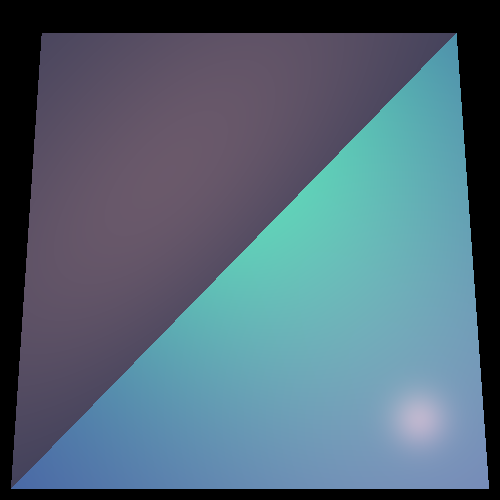
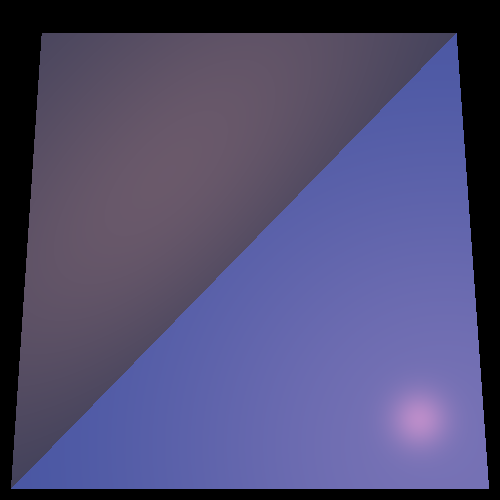
Fixing76

diff --git a/unittests/renderer/ShadowTests.java b/unittests/renderer/ShadowTests.java
@@ -1,0 +1,123 @@
+package renderer;
+
+import static java.awt.Color.BLUE;
+
+import org.junit.jupiter.api.Test;
+
+import geometries.*;
+import lighting.*;
+import primitives.*;
+import scene.Scene;
+
+/**
+ * Testing basic shadows
+ * @author Dan Zilberstein
+ */
+class ShadowTests {
+   /** Default constructor to satisfy JavaDoc generator */
+   ShadowTests() { /* to satisfy JavaDoc generator */ }
+
+   /** Scene of the tests */
+   private final Scene          scene      = new Scene("Test scene");
+   /** Camera builder of the tests */
+   private final Camera.Builder camera     = Camera.getBuilder()
+      .setLocation(new Point(0, 0, 1000))
+      .setDirection(Point.ZERO, Vector.AXIS_Y)
+      .setVpDistance(1000)
+      .setVpSize(200, 200)
+      .setRayTracer(scene, RayTracerType.SIMPLE);
+
+   /** The sphere in the tests */
+   private final Intersectable  sphere     = new Sphere(60d,new Point(0, 0, -200))
+      .setEmission(new Color(BLUE))
+      .setMaterial(new Material().setKD(0.5).setKS(0.5).setShininess(30));
+   /** The material of the triangles in the tests */
+   private final Material       trMaterial = new Material().setKD(0.5).setKS(0.5).setShininess(30);
+
+   /**
+    * Helper function for the tests in this module
+    * @param pictName     the name of the picture generated by a test
+    * @param triangle     the triangle in the test
+    * @param spotLocation the spotlight location in the test
+    */
+   private void sphereTriangleHelper(String pictName, Triangle triangle, Point spotLocation) {
+      scene.geometries.add(sphere, triangle.setEmission(new Color(BLUE)).setMaterial(trMaterial));
+      scene.lights //
+         .add(new SpotLight(new Color(400, 240, 0), spotLocation, new Vector(1, 1, -3)) //
+            .setKl(1E-5).setKq(1.5E-7));
+      camera
+         .setResolution(400, 400) //
+         .build() //
+         .renderImage() //
+         .writeToImage(pictName);
+   }
+
+   /** Produce a picture of a sphere and triangle with point light and shade */
+   @Test
+   void sphereTriangleInitial() {
+      sphereTriangleHelper("shadowSphereTriangleInitial", //
+                           new Triangle(new Point(-70, -40, 0), new Point(-40, -70, 0), new Point(-68, -68, -4)), //
+                           new Point(-100, -100, 200));
+   }
+
+   /** Sphere-Triangle shading - move triangle up-right */
+   @Test
+   void sphereTriangleMove1() {
+      sphereTriangleHelper("shadowSphereTriangleMove2", //
+                           new Triangle(new Point(-60, -30, 0), new Point(-30, -60, 0), new Point(-58, -58, -4)), //
+                           new Point(-100, -100, 200));
+   }
+
+   /** Sphere-Triangle shading - move triangle upper-righter */
+   @Test
+   void sphereTriangleMove2() {
+      sphereTriangleHelper("shadowSphereTriangleMove1", //
+                           new Triangle(new Point(-50, -20, 0), new Point(-20, -50, 0), new Point(-48, -48, -4)), //
+                           new Point(-100, -100, 200));
+   }
+
+   /** Sphere-Triangle shading - move spot closer */
+   @Test
+   void sphereTriangleSpot1() {
+      sphereTriangleHelper("shadowSphereTriangleSpot1", //
+                           new Triangle(new Point(-70, -40, 0), new Point(-40, -70, 0), new Point(-68, -68, -4)), //
+                           new Point(-100, -100, 150));
+   }
+
+   /** Sphere-Triangle shading - move spot even more close */
+   @Test
+   void sphereTriangleSpot2() {
+      sphereTriangleHelper("shadowSphereTriangleSpot2", //
+                           new Triangle(new Point(-70, -40, 0), new Point(-40, -70, 0), new Point(-68, -68, -4)), //
+                           new Point(-100, -100, 100));
+   }
+
+   /**
+    * Produce a picture of two triangles lighted by a spotLight with a Sphere
+    * producing a shading
+    */
+   @Test
+   void trianglesSphere() {
+      scene.geometries //
+         .add( //
+              new Triangle(new Point(-150, -150, -115), new Point(150, -150, -135), new Point(75, 75, -150)) //
+                 .setMaterial(new Material().setKS(0.8).setShininess(60)), //
+              new Triangle(new Point(-150, -150, -115), new Point(-70, 70, -140), new Point(75, 75, -150)) //
+                 .setMaterial(new Material().setKS(0.8).setShininess(60)), //
+              new Sphere(30d,new Point(0, 0, -11)) //
+                 .setEmission(new Color(BLUE)) //
+                 .setMaterial(new Material().setKD(0.5).setKS(0.5).setShininess(30)) //
+         );
+      scene.setAmbientLight(new AmbientLight(new Color(38, 38, 38)));
+      scene.lights //
+         .add(new SpotLight(new Color(700, 400, 400), new Point(40, 40, 115), new Vector(-1, -1, -4)) //
+            .setKl(4E-4).setKq(2E-5));
+
+      camera//
+         .setResolution(600, 600) //
+         .build() //
+         .renderImage() //
+         .writeToImage("shadowTrianglesSphere");
+   }
+
+}

diff --git a/src/renderer/SimpleRayTracer.java b/src/renderer/SimpleRayTracer.java
@@ -29,6 +29,12 @@ public class SimpleRayTracer extends RayTracerBase {
     }
 
     /**
+     * A small value used to avoid floating-point precision issues.
+     * This value is used to check if two floating-point numbers are equal.
+     */
+    private static final double DELTA = 0.1;
+
+    /**
      * Traces a ray through the scene and returns the color at the intersection point.
      * This method checks if the ray intersects with any geometries in the scene.
      * If there are no intersections, it returns the background color of the scene.
@@ -131,7 +137,8 @@ public class SimpleRayTracer extends RayTracerBase {
         // Iterate through all the light sources in the scene
         for (LightSource lightSource : scene.lights) {
             // Set the light source for the intersection point
-            if (setLightSource(intersection, lightSource)) {
+            // Check also if the intersection point is unshaded
+            if (setLightSource(intersection, lightSource)&&unshaded(intersection)) {
                 // Calculate the diffuse and specular components of the color
                 Color iL = lightSource.getIntensity(intersection.point);
                 // Add the color contributions from the light source
@@ -178,5 +185,40 @@ public class SimpleRayTracer extends RayTracerBase {
         }
         // If the light direction is opposite to the normal vector, return the negative diffuse component
         return intersection.material.kD.scale(intersection.lNormal * (-1));
+    }
+
+    /**
+     * Checks if the intersection point is unshaded by any geometries in the scene.
+     * This method calculates the ray from the intersection point to the light source
+     * and checks if there are any intersections with other geometries in the scene.
+     *
+     * @param intersection - the intersection object containing the geometry and point of intersection
+     * @return true if the intersection point is unshaded, false otherwise
+     */
+    private boolean unshaded(Intersection intersection) {
+        // Calculate the ray from the intersection point to the light source
+        Vector pointToLight = intersection.l.scale(-1);
+        Vector delta= intersection.normal.scale(intersection.lNormal<0? DELTA : -DELTA);
+        Ray shadowRay = new Ray(intersection.point.add(delta), pointToLight);
+        // Check if the shadow ray intersects with any geometries in the scene
+        List<Intersection> intersections = scene.geometries.calculateIntersections(shadowRay);
+        // If there are no intersections, return true (the point is unshaded)
+        if (intersections == null || intersections.isEmpty()) {
+            return true;
+        }
+        // If there are intersections, check if the light source is blocked
+        // Calculate the distance from the light source to the intersection point
+        double distanceLight= intersection.light.getDistance(intersection.point);
+        // A variable to store the distance between the head of the ray and the intersection point
+        double distance;
+        // Iterate through all the intersections
+        for (Intersection i : intersections) {
+            // Check if the intersection point is closer to the light source than the original intersection point
+            distance= shadowRay.getHead().distance(i.point);
+            if (alignZero( distanceLight-distance)>0){
+                return false;
+            }
+        }
+        return true;
     }
 }

diff --git a/src/lighting/PointLight.java b/src/lighting/PointLight.java
@@ -92,4 +92,14 @@ public class PointLight extends Light implements LightSource{
     public Vector getL(Point p) {
         return p.subtract(position).normalize();
     }
+
+    /**
+     * Calculates the distance from the light source to a specific point in the scene.
+     * @param point - The point in the scene from which the distance to the light source is being calculated.
+     * @return The distance from the light source to the specified point, represented by a double value.
+     */
+    @Override
+    public double getDistance(Point point) {
+        return position.distance(point);
+    }
 }

diff --git a/src/lighting/DirectionalLight.java b/src/lighting/DirectionalLight.java
@@ -46,4 +46,14 @@ public class DirectionalLight extends Light implements LightSource{
     public Vector getL(Point p) {
         return direction;
     }
+
+    /**
+     * Gets the distance from the light source to a specific point in the scene.
+     * @param point - The point in the scene from which the distance to the light source is being calculated.
+     * @return The distance from the light source to the specified point, represented by a double value.
+     */
+    @Override
+    public double getDistance(Point point) {
+        return Double.POSITIVE_INFINITY;
+    }
 }

diff --git a/src/lighting/SpotLight.java b/src/lighting/SpotLight.java
@@ -106,4 +106,14 @@ public class SpotLight extends PointLight{
     public Vector getL(Point p) {
         return super.getL(p);
     }
+
+    /**
+     * Calculates the distance from the light source to a specific point in the scene.
+     * @param point - The point in the scene from which the distance to the light source is being calculated.
+     * @return The distance from the light source to the specified point, represented by a double value.
+     */
+    @Override
+    public double getDistance(Point point) {
+        return super.getDistance(point);
+    }
 }

diff --git a/src/lighting/LightSource.java b/src/lighting/LightSource.java
@@ -28,4 +28,11 @@ public interface LightSource {
      */
     Vector getL(Point p);
 
+    /**
+     * This method returns the distance from the light source to a specific point in the scene.
+     * @param point - The point in the scene from which the distance to the light source is being calculated.
+     * @return The distance from the light source to the specified point, represented by a double value.
+     */
+    double getDistance(Point point);
+
 }
